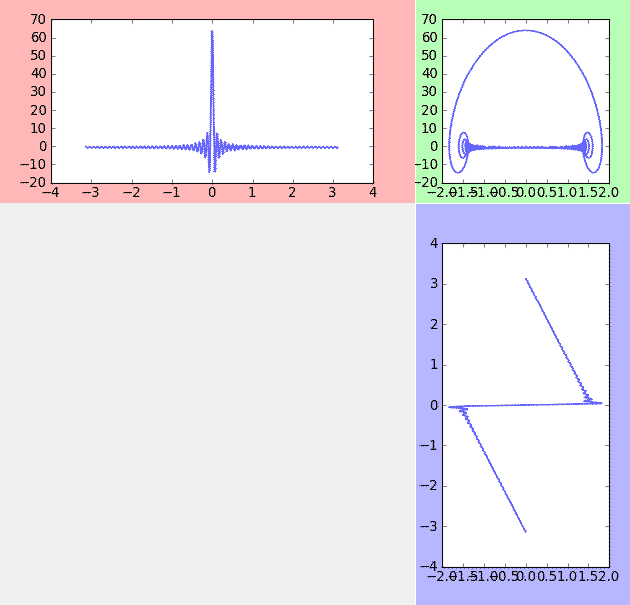
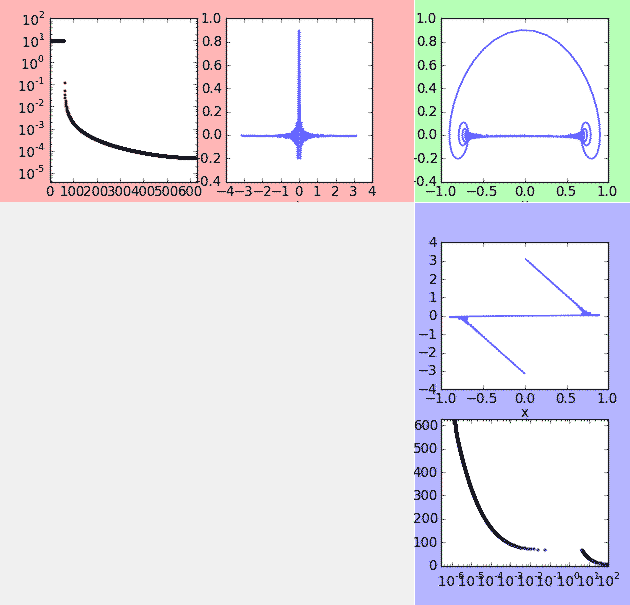
add comments to wxOsciloDraw.py update caseNN.png add world_lines_0_005.dft

diff --git a/wxOsciloDraw.py b/wxOsciloDraw.py
@@ -16,7 +16,11 @@ APP_FILE = u'testdata'
 APP_EXT = u'turtle'
 APP_DFT = u'dft'
 
-DEF_T_TICK = 0.01 # 0.1 # 0.05 # 0.025 # 0.0125 # 0.01 # 0.001
+# DEF_T_TICK 変更時の .dft 出力データサンプル数の目安
+# (usefft を False にすると .turtle データから .dft データに変換)
+# 1.0 のときは .turtle と同数(変換後の共役複素数=負値は保存しないので実質半数)
+# 0.1(32) 0.05(64) 0.025(128) 0.0125(256) 0.01(320) 0.005(640) 0.001(3200)
+DEF_T_TICK = 0.005 # 0.01 でほぼ充分だが test mode (preset) のデータだと粗い為
 DEF_TWIDTH, DEF_T_MIN, DEF_T_MAX = 400, -math.pi, math.pi
 DEF_XWIDTH, DEF_X_MIN, DEF_X_MAX = 200, -2.0, 2.0
 DEF_YWIDTH, DEF_Y_MIN, DEF_Y_MAX = 200, -2.0, 2.0
@@ -65,7 +69,7 @@ def load_turtle(fname):
 
 def load_dft(fname):
   t, x, y, o = np.arange(DEF_T_MIN, DEF_T_MAX, DEF_T_TICK), [], [], []
-  if True: # False: # test return preset value
+  if False: # test mode return preset value
     x = reduce(lambda a, b: a + np.sin(b*t)/b, xrange(1, 65), 0.0)
     y = reduce(lambda a, b: a + np.cos(b*t), xrange(1, 65), 0.0)
     return t, x, y
@@ -113,7 +117,7 @@ class MyFrame(wx.Frame):
 
     autoscale = True # False のときは下行の各値を gauge で set
     x_min, x_max, y_min, y_max = DEF_X_MIN, DEF_X_MAX, DEF_Y_MIN, DEF_Y_MAX
-    usefft = True # False # True
+    usefft = False # True
     if not usefft:
       t, x, y = load_turtle(os.path.abspath(u'./%s.%s' % (APP_FILE, APP_EXT)))
       if DEF_T_TICK < 1.0: # re-sampling by enhanced scale
